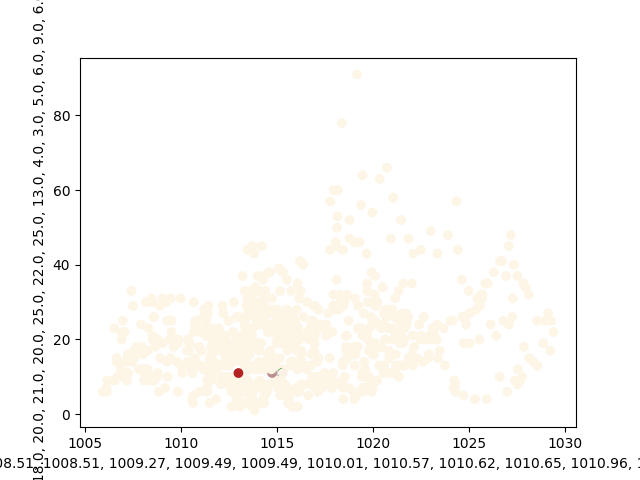
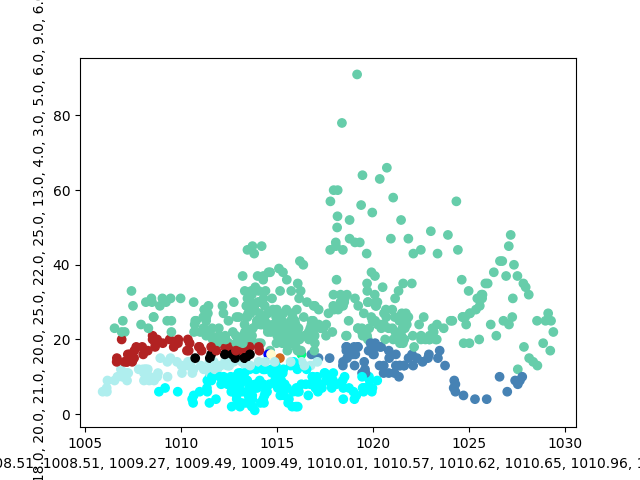
Finally working for air quality

diff --git a/DataMining-Project2/DataMining_Project2.py b/DataMining-Project2/DataMining_Project2.py
@@ -22,8 +22,8 @@ random.shuffle(clusters_color)
 
 # Nice output :)
 def print_point(point, x, y):
-    print("(%.2f, %s)  -> id=%d,  \tid_of_closest_neighbor=%s,\trefed_points=%s,\tcluster=%s,\tdensity=%d,\tdistance_to_higher_density_point=%.4f" % \
-        (point[x], point[y], point["id"], str(point["id_of_point_with_higher_density"]), str(point["refed_points"]), 
+    print("(%.2f, %s)  -> id=%d,  \tid_of_closest_neighbor=%s,\tcluster=%s,\tdensity=%d,\tdistance_to_higher_density_point=%.4f" % \
+        (point[x], point[y], point["id"], str(point["id_of_point_with_higher_density"]),
          str(point["cluster"]), point["density"], point["distance_to_higher_density_point"]))
 
 # Dinstance between two points
@@ -57,7 +57,6 @@ def set_distance_to_higher_density_point(point_i, points):
         if distance < point_i["distance_to_higher_density_point"]:
             point_i["distance_to_higher_density_point"] = distance
             point_i["id_of_point_with_higher_density"] = int(point_j["id"])
-            point_j["refed_points"].append(point_i["id"])
 
     if point_i["distance_to_higher_density_point"] == float("inf"):
        point_i["distance_to_higher_density_point"] = 0
@@ -92,9 +91,7 @@ def compleat(point, labels):
     new_point["UTC time"] = datetime.datetime(int(year), int(month), int(day), int(hours), int(minutes), int(float(seconds)))
     new_point["Date"] = new_point["UTC time"].date()
     new_point["Time"] = new_point["UTC time"].time()
-    #new_point["Date Int"] = time.mktime(new_point["UTC time"].timetuple())
 
-    new_point["refed_points"] = []
     new_point["density"] = None
     new_point["distance_to_higher_density_point"] = None
     new_point["id_of_point_with_higher_density"] = None
@@ -141,16 +138,10 @@ def get_and_calculate(sc, n, limit, cutoff_distance):
 
     points_with_distance_to_higher_density_point = points_with_local_density.map(
         lambda point: set_distance_to_higher_density_point(point, list_of_random_points))
-    list_of_points_with_distance_to_higher_density_point = [point for point in points_with_distance_to_higher_density_point.toLocalIterator()]
 
     print("points with higher density set")
-
-    points_with_refed_points = points_with_distance_to_higher_density_point.map(
-        lambda point: set_refed_points(point, list_of_points_with_distance_to_higher_density_point))
-
-    print("refed points set")
     
-    return points_with_refed_points
+    return points_with_distance_to_higher_density_point
 
 def plot_of_density_and_distance_to_higher_density_point(points, file_name):
     points = points.collect()
@@ -214,58 +205,20 @@ def assign_points_to_clusters(points):
         point["cluster"] = ref_point["cluster"]
 
         return point
-
-    def set_clusters(center, all_points):
-        for p_id in center["refed_points"]:
-            for pp in all_points:
-                if pp["id"] == p_id and pp["cluster"] == None:
-                    pp["cluster"] = center["cluster"]
-                    set_clusters(pp, all_points)
-                    break
-
-#            ref_p = [ pp for pp in all_points if pp["id"] == p ][0]
-#            if ref_p["cluster"] == None:
-#                ref_p["cluster"] = center["cluster"]
-#                set_clusters(ref_p)
-#                print(p)
     
-    #print(points.filter(lambda point: point["cluster"] == None).count())
-
-    for center in [point for point in points.toLocalIterator() if point["cluster"] != None]:
-        set_clusters(center, points.toLocalIterator())
-    
-    for point in points.toLocalIterator():
-        print_point(point, "169_pressure", "169_pm1")
-
-    return points
-
-    #return points
-
-    #while None in [point["cluster"] for point in points.collect()]:
-    #    all_points = points.collect()
-    #    points = points.map(lambda point: set_cluster(point, all_points))
-
-    #    print(points.filter(lambda point: point["cluster"] == None).count())
-
-def assign_points_to_clusters_working(points):
-        
-    def set_cluster(point, all_points):
-        if point["cluster"] is not None or point["id_of_point_with_higher_density"] is None:
-            return point
-
-        ref_point = [ p for p in all_points 
-                            if p["id"] == point["id_of_point_with_higher_density"] ][0]
-        point["cluster"] = ref_point["cluster"]
-
-        return point
-    
-    print(points.filter(lambda point: point["cluster"] == None).count())
+    was = points.filter(lambda point: point["cluster"] == None).count()
+    print(was)
 
     while None in [point["cluster"] for point in points.collect()]:
         all_points = points.collect()
         points = points.map(lambda point: set_cluster(point, all_points))
 
-        print(points.filter(lambda point: point["cluster"] == None).count())
+        now = points.filter(lambda point: point["cluster"] == None).count()
+        print(now)
+        if was == now: break
+        was = now
+
+    return points
 
 def main(sc, clusters, n, limit, cutoff_distance):
     clusters_color = ['black', 'green', 'blue', 'red', 'yellow', 'purple', 'cyan', 'lime']
@@ -276,7 +229,6 @@ def main(sc, clusters, n, limit, cutoff_distance):
     plot_of_density_and_distance_to_higher_density_point(points, 'density.png')
 
     points = assign_points_to_clusters(points)
-    #points.foreach(print)
     plot_clusters(points, "169_pressure", "169_pm1", 'clusters.png')  
 
     print("\n\nPoints:")
@@ -369,7 +321,7 @@ if __name__ == "__main__":
     conf = SparkConf().setAppName('DataMining_Project')
     sc = SparkContext(conf=conf)
 
-    main(sc, clusters=5, n=100, limit=10, cutoff_distance=5)
+    main(sc, clusters=5, n=100, limit=10, cutoff_distance=10)
 
     #complexity_in_time(sc, clusters=5, limit=10, cutoff_distance=1, p_min=20, p_max=1000, k=20)
     #complexity_in_clusters_number(sc, clusters_min=3, clusters_max=50, limit=10, cutoff_distance=1, p=300)
